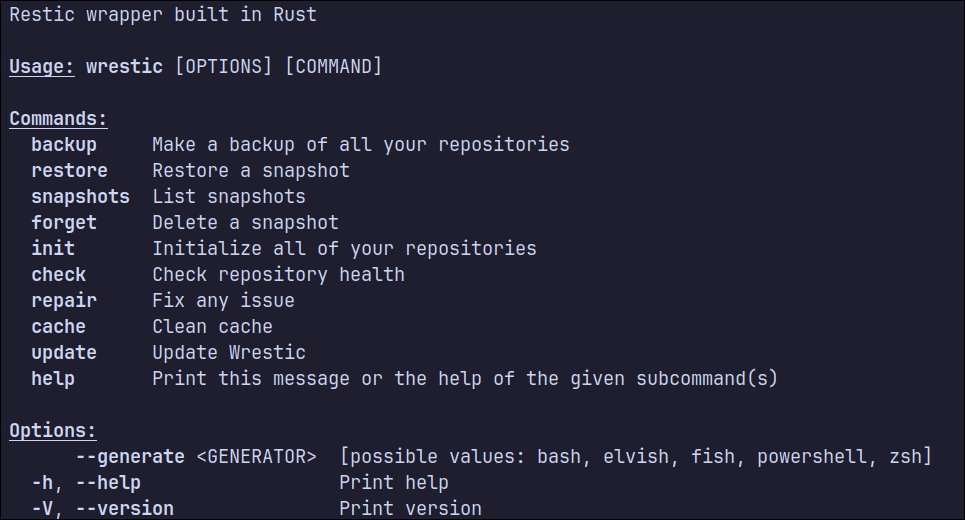
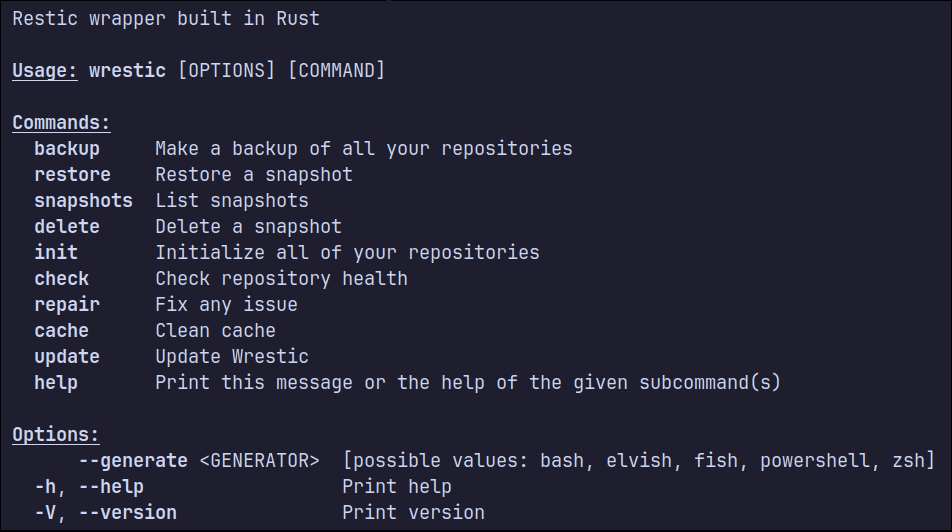
update images

diff --git a/src/content/docs/es/get-started/usage.md b/src/content/docs/es/get-started/usage.md
@@ -10,7 +10,7 @@ sudo wrestic
 ```
 Y se mostrará una pantalla como ésta:
 
-![wrestic screen](../../../../assets/wrestic.png)
+![wrestic screen](../../../../assets/wrestic_tui.png)
 
 Desde aquí puedes realizar varias acciones, pero es recomendable inicializar los repositorios primero.\
 Puedes hacerlo en esta pantalla seleccionando `Initialize` o puedes ejecutar el commando directamente a través de la CLI:

diff --git a/src/content/docs/get-started/usage.md b/src/content/docs/get-started/usage.md
@@ -10,7 +10,7 @@ sudo wrestic
 ```
 It will show you a screen like this:
 
-![wrestic screen](../../../assets/wrestic.png)
+![wrestic screen](../../../assets/wrestic_tui.png)
 
 From there you can perform various actions, but it's recommended to initialize the repositories first.\
 You can do it inside of this screen by selecting `Initialize` or you can run the command directly with the CLI:
